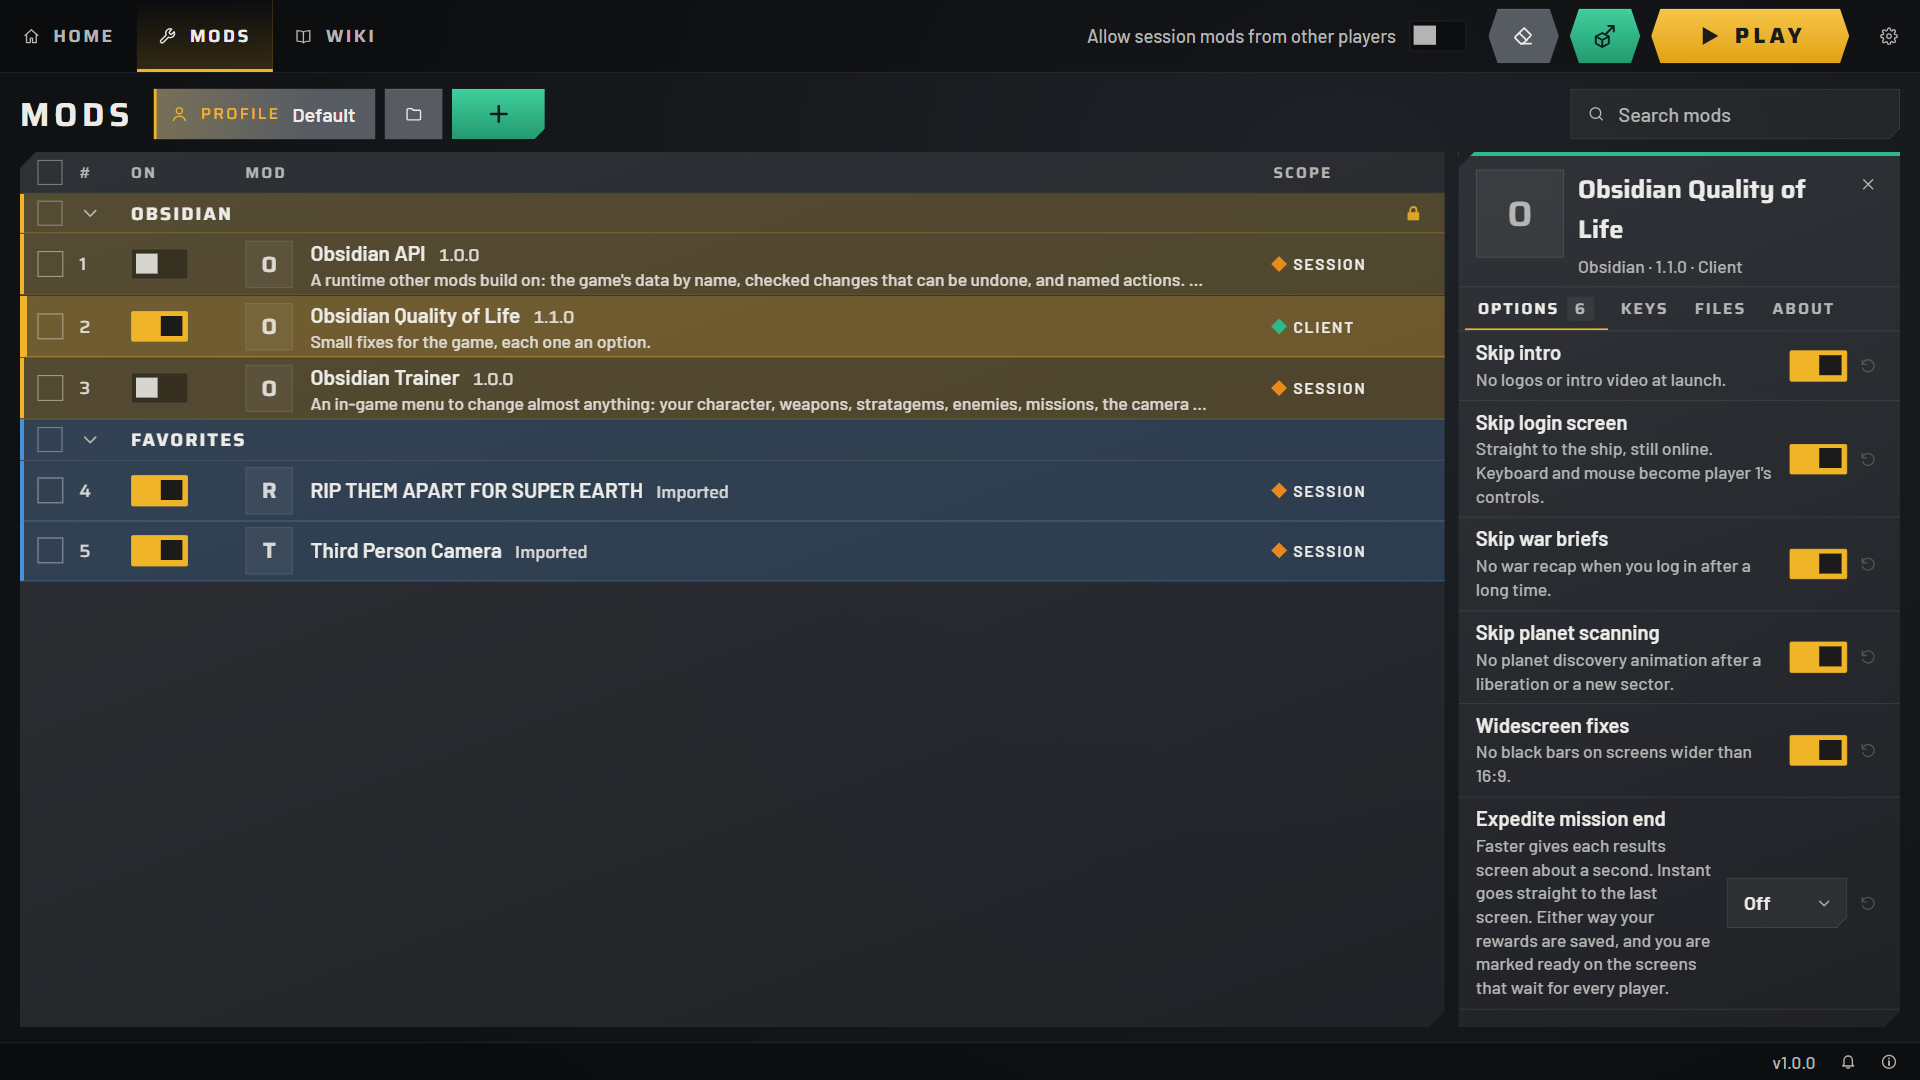
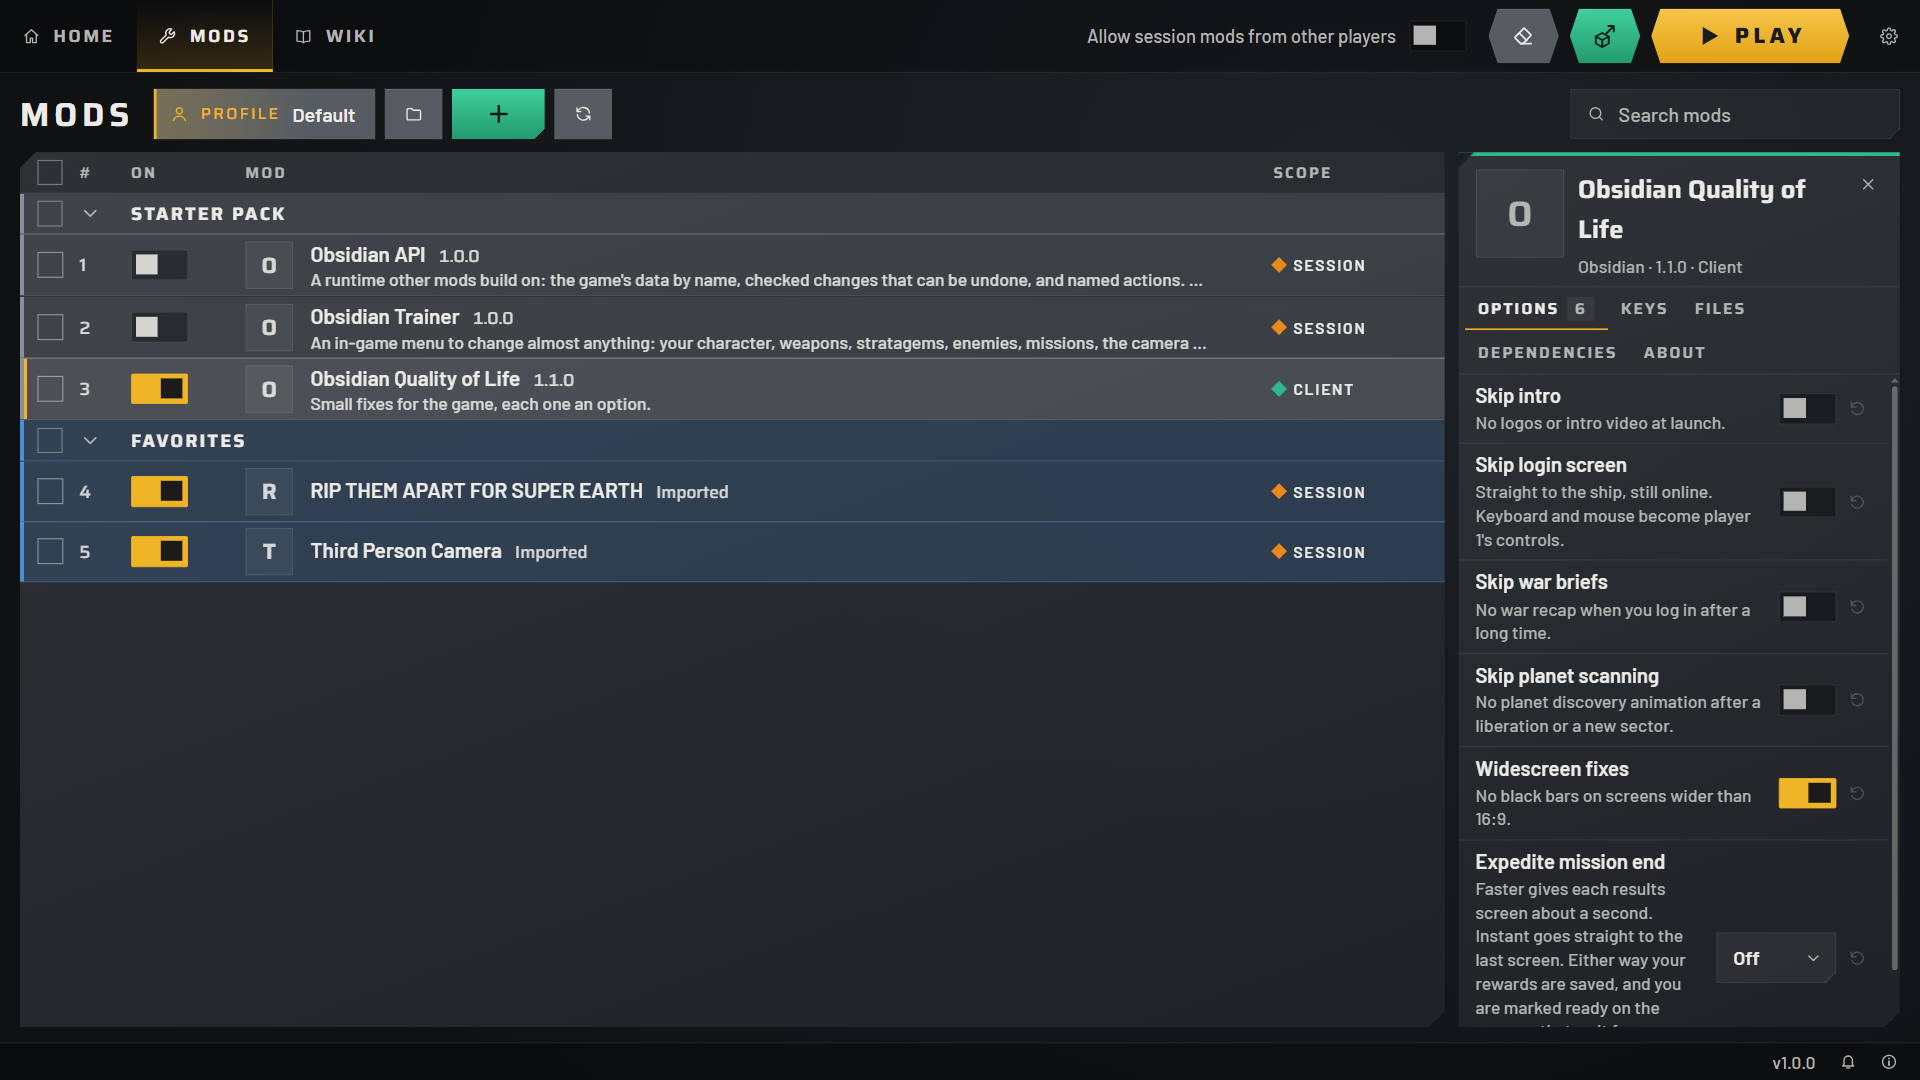
docs: the starter pack, dependencies and the new mod repositories

diff --git a/README.md b/README.md
@@ -52,7 +52,7 @@
 
 The mod library. Turn mods on and off, drag them into the load order, sort them into folders, and change options and keys for each mod. Conflicts show which mods change the same thing, and profiles keep separate sets of mods and settings. Mods that name a GitHub repository update from inside the app, and old mods that replace whole game files import like any other.
 
-<img src="assets/readme/mods.png" alt="The Mods tab: the Obsidian and Favorites folders, each mod with a switch, a place in the load order and a scope, and the options of Obsidian Quality of Life on the right" width="100%">
+<img src="assets/readme/mods.png" alt="The Mods tab: the STARTER PACK and Favorites folders, each mod with a switch, a place in the load order and a scope, and the options of Obsidian Quality of Life on the right" width="100%">
 
 ### 📖 Wiki
 
@@ -60,19 +60,19 @@ Guides inside the app, for players and for mod authors. They cover adding mods, 
 
 <img src="assets/readme/wiki.png" alt="The Wiki tab: search and the guides by group on the left, How Obsidian Works open in the middle, and the headings of the page on the right" width="100%">
 
-### 🎁 Bundled Mods
+### 🎁 Starter Pack
 
-Three mods come with Obsidian and stay off until you turn them on.
+Three mods come with Obsidian, in the STARTER PACK folder. Obsidian Quality of Life starts on with only the widescreen fixes enabled, and the other two stay off until you turn them on. They're mods like any other: each has its own repository and updates from GitHub, and you can move or delete them. **Restore starter pack** in Settings puts everything back.
 
-#### Obsidian Quality of Life
+#### [Obsidian Quality of Life](https://github.com/Alomare/ObsidianQoL)
 
 Skips the intro, the login screen, war briefs and planet scanning, removes the black bars on screens wider than 16:9, and can speed up or skip the results screens after a mission. Each fix is an option.
 
-#### Obsidian Trainer
+#### [Obsidian Trainer](https://github.com/Alomare/ObsidianTrainer)
 
 An in-game window, opened with F6, for your character, weapons, stratagems, enemies, missions and game values. It works with the mouse or the keys, and you can move and resize it. It doesn't change XP or rank, doesn't unlock paid DLC and doesn't touch the Galactic War. It's a session mod, so it follows the same multiplayer rules as any other.
 
-#### Obsidian API
+#### [Obsidian API](https://github.com/Alomare/ObsidianAPI)
 
 A runtime other mods can build on. It turns on with the Trainer.
 
@@ -169,6 +169,6 @@ Bug reports and help on the Discord count as much as code. The Wiki pages are Ma
 
 ## License
 
-Copyright (C) 2026 Alomare. Licensed under the [Apache License 2.0](LICENSE).
+Copyright (C) 2026 Alomare. Licensed under the [Apache License 2.0](LICENSE). The starter pack mods are under the MIT License, in their own repositories.
 
 Only builds from this repository's GitHub releases are official Obsidian. The license gives no right to use the Obsidian name for other builds.

diff --git a/app/src/wiki/pt-BR/12-adding-mods.md b/app/src/wiki/pt-BR/12-adding-mods.md
@@ -35,7 +35,19 @@ O Obsidian só fala com o GitHub quando você clica, e só instala uma versão m
 
 ## Remover {#removing}
 
-Clique com o botão direito num mod e escolha **Remover**, ou marque vários mods e use **Remover** na barra acima da lista. Os mods que vêm com o Obsidian não podem ser removidos; eles ficam na pasta Obsidian, que é travada, e continuam desligados até você ligar.
+Clique com o botão direito num mod e escolha **Remover**, ou marque vários mods e use **Remover** na barra acima da lista.
+
+## Pacote inicial {#starter-pack}
+
+Três mods vêm com o Obsidian, na pasta **STARTER PACK**, no topo da lista: Obsidian API, [Obsidian Trainer](wiki:trainer) e Obsidian Qualidade de Vida. O Qualidade de Vida começa ligado, só com as correções para tela larga ativas. Os outros dois ficam desligados até você ligar.
+
+Eles são mods como quaisquer outros. Você pode mover ou remover os mods, renomear ou apagar a pasta, e atualizar os mods pelo GitHub. Para deixar tudo como era, use **Restaurar pacote inicial** em [Configurações](app:settings). Isso traz de volta os mods apagados e a pasta, e volta as configurações deles ao padrão no perfil ativo.
+
+## Dependências {#dependencies}
+
+Alguns mods precisam de outros para funcionar. A aba **Dependências**, no painel à direita, mostra do que um mod precisa e quais mods precisam dele. Ligar um mod liga o que ele precisa, e desligar desliga os mods que precisam dele.
+
+Se um mod precisa de algo que não está na sua biblioteca, a aba avisa, e o mod não liga até você adicionar o que falta.
 
 ## Imagens {#pictures}
 

diff --git a/app/src/wiki/12-adding-mods.md b/app/src/wiki/12-adding-mods.md
@@ -35,7 +35,19 @@ Obsidian only asks GitHub when you click, and it only installs a higher version 
 
 ## Removing
 
-Right-click a mod and choose **Remove**, or check several mods and use **Remove** in the bar above the list. The mods that come with Obsidian can't be removed; they sit in the locked Obsidian folder and stay off until you turn them on.
+Right-click a mod and choose **Remove**, or check several mods and use **Remove** in the bar above the list.
+
+## Starter pack
+
+Three mods come with Obsidian, in the **STARTER PACK** folder at the top of the list: Obsidian API, [Obsidian Trainer](wiki:trainer) and Obsidian Quality of Life. Quality of Life starts on, with only the widescreen fixes enabled. The other two stay off until you turn them on.
+
+They're mods like any other. You can move them, remove them, rename or delete the folder, and update them from GitHub. To put everything back, use **Restore starter pack** in [Settings](app:settings). It brings back deleted mods and the folder, and resets their settings in the active profile.
+
+## Dependencies
+
+Some mods need others to work. The **Dependencies** tab, in the panel on the right, shows what a mod needs and which mods need it. Switching a mod on switches on what it needs, and switching it off switches off the mods that need it.
+
+If a mod needs something that isn't in your library, the tab says so, and the mod won't switch on until you add it.
 
 ## Pictures
 

diff --git a/CONTRIBUTING.md b/CONTRIBUTING.md
@@ -20,6 +20,10 @@ On Linux you also need the [system packages Tauri lists](https://v2.tauri.app/st
 
 Some tests read your own game files and are skipped unless you point them at the game with `OBSIDIAN_GAME_DIR`. Game files are never committed.
 
+## The starter pack
+
+Obsidian API, Obsidian Trainer and Obsidian Quality of Life each have their own repository, under the MIT License. `bundled/` holds a copy of each one for the installer and the tests, so change a mod in its repository, not there. With the repositories cloned into `../Bundled`, `python tools/starter_pack.py` refreshes the copy from what they have committed.
+
 ## Changes that need care
 
 - Anything in the loader that decides when session mods run (spec section 6) needs a test for every case it touches, and a note in the pull request on how it was tested in game.
@@ -32,4 +36,4 @@ Include the output of `obsidian status`, the file `%APPDATA%\Arrowhead\Helldiver
 
 ## License
 
-By contributing, you agree that your contribution is licensed under the [Apache License 2.0](LICENSE), the same as the rest of Obsidian.
+By contributing, you agree that your contribution is licensed under the [Apache License 2.0](LICENSE), the same as the rest of Obsidian. The starter pack repositories are under the MIT License.

diff --git a/app/src/wiki/42-manifest.md b/app/src/wiki/42-manifest.md
@@ -46,7 +46,7 @@ summary: Every field of the file that describes a mod.
 | `scope` | no | `client` or `session` ([Scopes](wiki:scopes)). Missing or unknown counts as `session`. |
 | `entry` | no | The Lua script the loader starts. Mods that only replace game files leave it out. |
 | `modules` | no | More `.lua` files beside `entry`, which the mod loads with `obsidian.module`. Paths inside the mod folder. |
-| `requires` | no | Ids of mods this one needs. Switching the mod on switches them on, and they start first. A deploy stops with a message if one is missing. |
+| `requires` | no | Ids of mods this one needs. Switching the mod on switches them on, and they start first. Players see them in the mod's Dependencies tab. A deploy stops with a message if one is missing. |
 | `loader_api` | no | The version of the [Loader API](wiki:loader-api) the mod needs. `1` when left out. |
 | `options` | no | Settings players change in the app ([Options and keys](wiki:options-and-keys)). |
 | `keybinds` | no | Keys players can rebind in the app. |

diff --git a/app/src/wiki/pt-BR/95-faq.md b/app/src/wiki/pt-BR/95-faq.md
@@ -38,7 +38,7 @@ O que está mais abaixo na lista ([Ordem de carregamento](wiki:load-order)).
 
 ### O que é o Obsidian Qualidade de Vida? {#what-is-obsidian-quality-of-life}
 
-Um mod de cliente que vem com o Obsidian: ele pula a abertura, a tela de login, os resumos da guerra e a varredura de planetas, tira as barras pretas em telas largas e pode acelerar ou pular as telas de resultado depois de uma missão. Cada correção é uma opção. Ligue o mod na pasta Obsidian, no topo da lista.
+Um mod de cliente que vem com o Obsidian: ele pula a abertura, a tela de login, os resumos da guerra e a varredura de planetas, tira as barras pretas em telas largas e pode acelerar ou pular as telas de resultado depois de uma missão. Cada correção é uma opção. Ele começa ligado, só com as correções para tela larga ativas; fica na pasta STARTER PACK, no topo da lista.
 
 ## Criar mods {#making-mods}
 

diff --git a/app/src/wiki/pt-BR/40-first-mod.md b/app/src/wiki/pt-BR/40-first-mod.md
@@ -63,7 +63,7 @@ O loader dá a cada mod uma tabela global chamada `obsidian`, com as funções d
 Para mudar o mod, edite os arquivos e importe a pasta de novo: um mod com o mesmo id substitui a cópia antiga. Aumente o `version` quando compartilhar uma versão nova.
 
 > [!TIP]
-> Os mods que vêm com o Obsidian também são mods normais. O Obsidian Qualidade de Vida é um bom exemplo de mod de cliente com opções; os arquivos estão na pasta `bundled` do [código-fonte](https://github.com/Alomare/ObsidianModManager).
+> Os mods que vêm com o Obsidian também são mods normais. O Obsidian Qualidade de Vida é um bom exemplo de mod de cliente com opções; os arquivos estão no [repositório dele](https://github.com/Alomare/ObsidianQoL).
 
 ## Próximos passos {#next-steps}
 

diff --git a/app/src/wiki/zh-CN/95-faq.md b/app/src/wiki/zh-CN/95-faq.md
@@ -38,7 +38,7 @@ Obsidian 在每次部署前备份存档文件夹，并保留最近 10 份（[部
 
 ### Obsidian 便利改进是什么？ {#what-is-obsidian-quality-of-life}
 
-Obsidian 自带的客户端模组：跳过开场、登录界面、战争简报和行星扫描，去掉宽屏上的黑边，还可以加快或跳过任务结束后的结算画面。每项改进都是一个选项。在列表顶部的 Obsidian 文件夹中启用它。
+Obsidian 自带的客户端模组：跳过开场、登录界面、战争简报和行星扫描，去掉宽屏上的黑边，还可以加快或跳过任务结束后的结算画面。每项改进都是一个选项。它默认启用，且只开启宽屏修正；位于列表顶部的 STARTER PACK 文件夹中。
 
 ## 制作模组 {#making-mods}
 

diff --git a/app/src/wiki/95-faq.md b/app/src/wiki/95-faq.md
@@ -38,7 +38,7 @@ The one lower in the list ([Load order](wiki:load-order)).
 
 ### What is Obsidian Quality of Life?
 
-A client mod that comes with Obsidian: it skips the intro, the login screen, war briefs and planet scanning, removes the black bars on wide screens, and can speed up or skip the results screens after a mission. Each fix is an option. Turn it on in the Obsidian folder at the top of the list.
+A client mod that comes with Obsidian: it skips the intro, the login screen, war briefs and planet scanning, removes the black bars on wide screens, and can speed up or skip the results screens after a mission. Each fix is an option. It starts on with only the widescreen fixes enabled; find it in the STARTER PACK folder at the top of the list.
 
 ## Making mods
 

diff --git a/app/src/wiki/40-first-mod.md b/app/src/wiki/40-first-mod.md
@@ -62,7 +62,7 @@ The loader gives every mod a global table named `obsidian` with the functions of
 To change the mod, edit the files and import the folder again: a mod with the same id replaces the old copy. Raise `version` when you share a new release.
 
 > [!TIP]
-> The mods that come with Obsidian are normal mods too. Obsidian Quality of Life is a good example of a client mod with options; the files are in the `bundled` folder of the [source code](https://github.com/Alomare/ObsidianModManager).
+> The mods that come with Obsidian are normal mods too. Obsidian Quality of Life is a good example of a client mod with options; the files are in [its repository](https://github.com/Alomare/ObsidianQoL).
 
 ## Next steps
 
